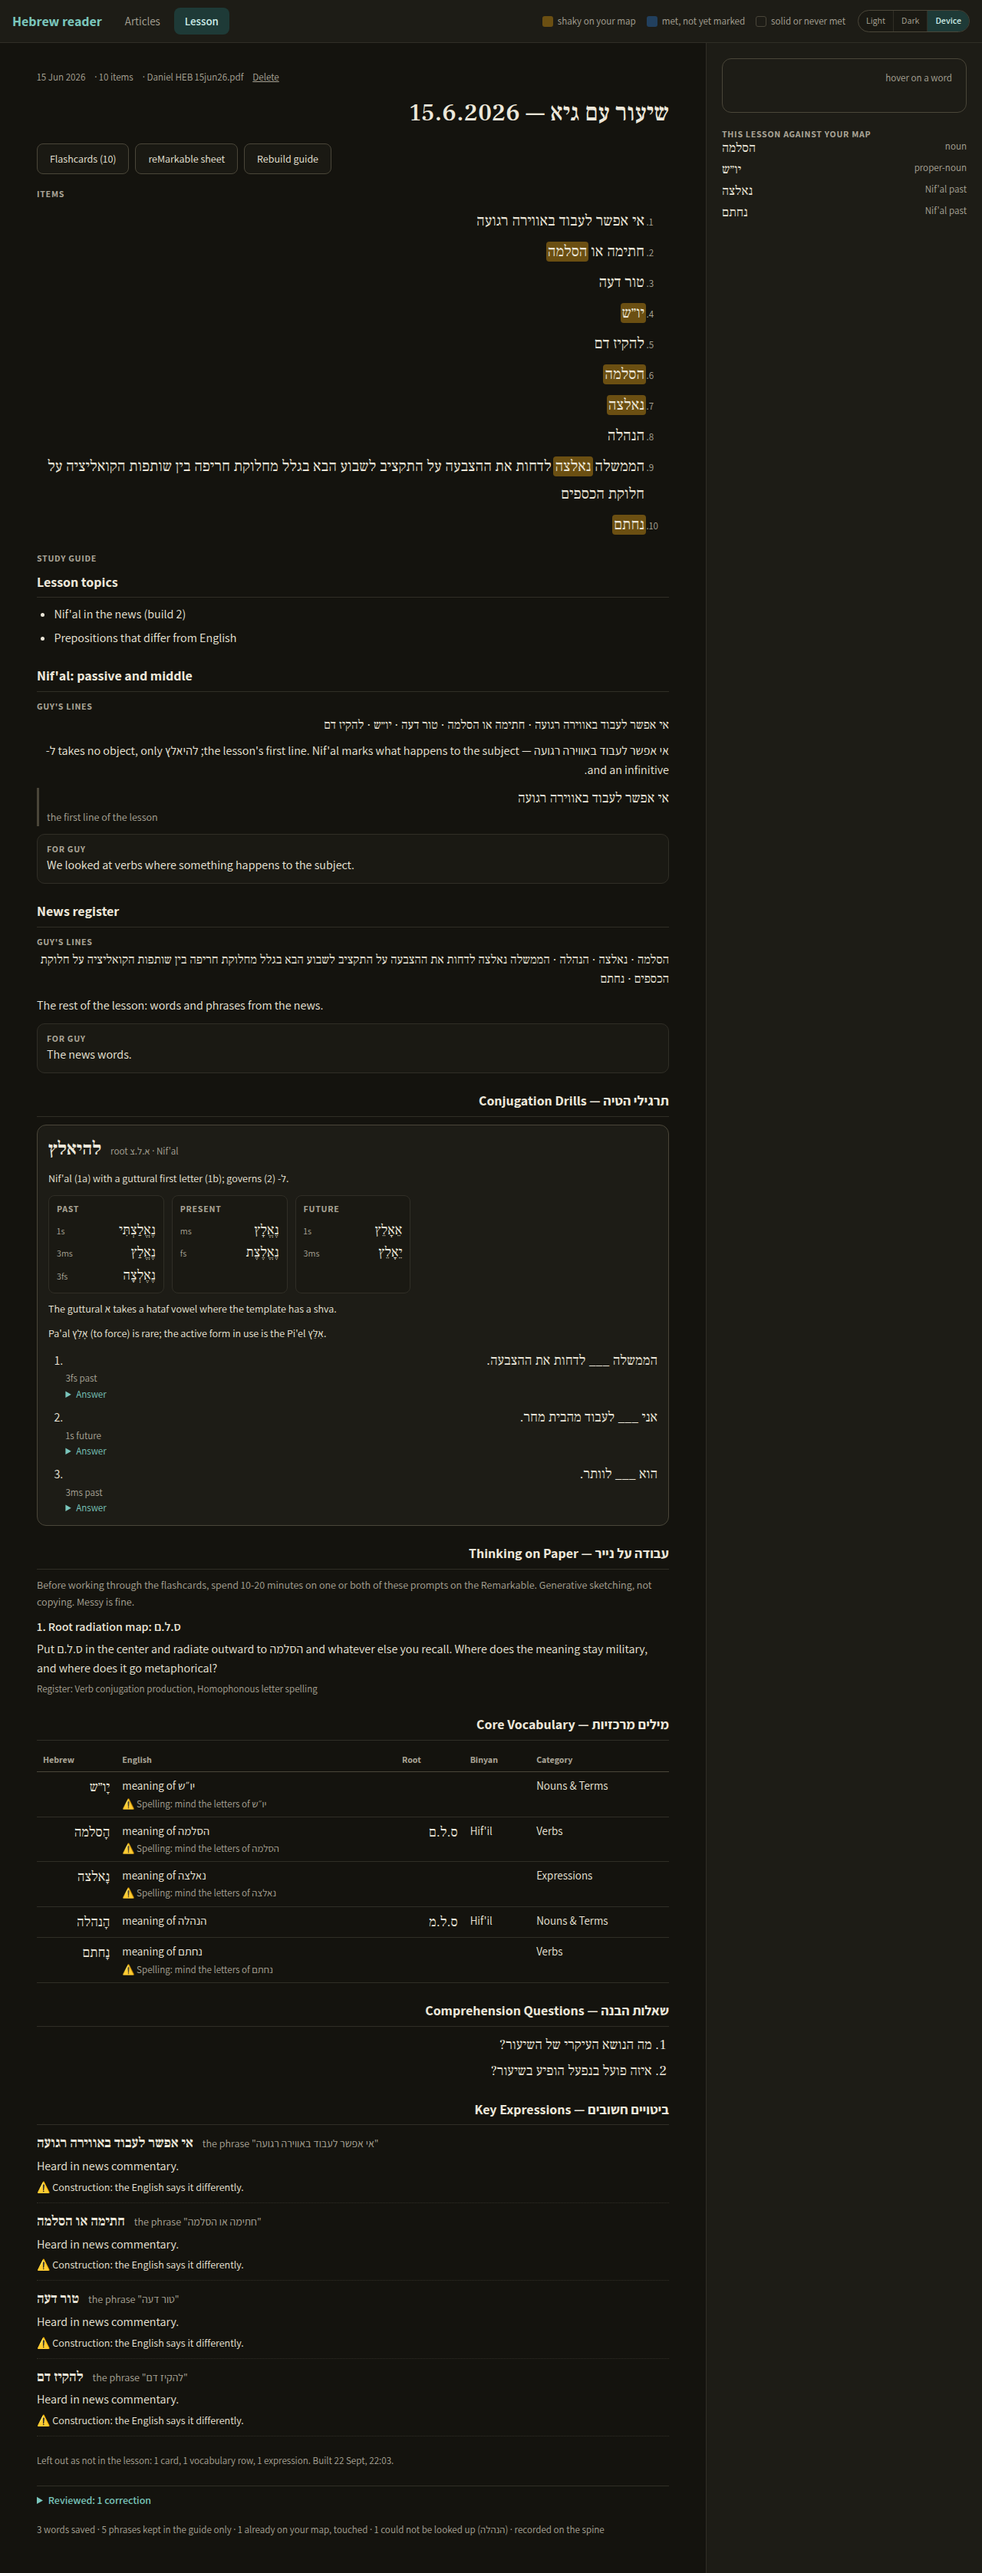
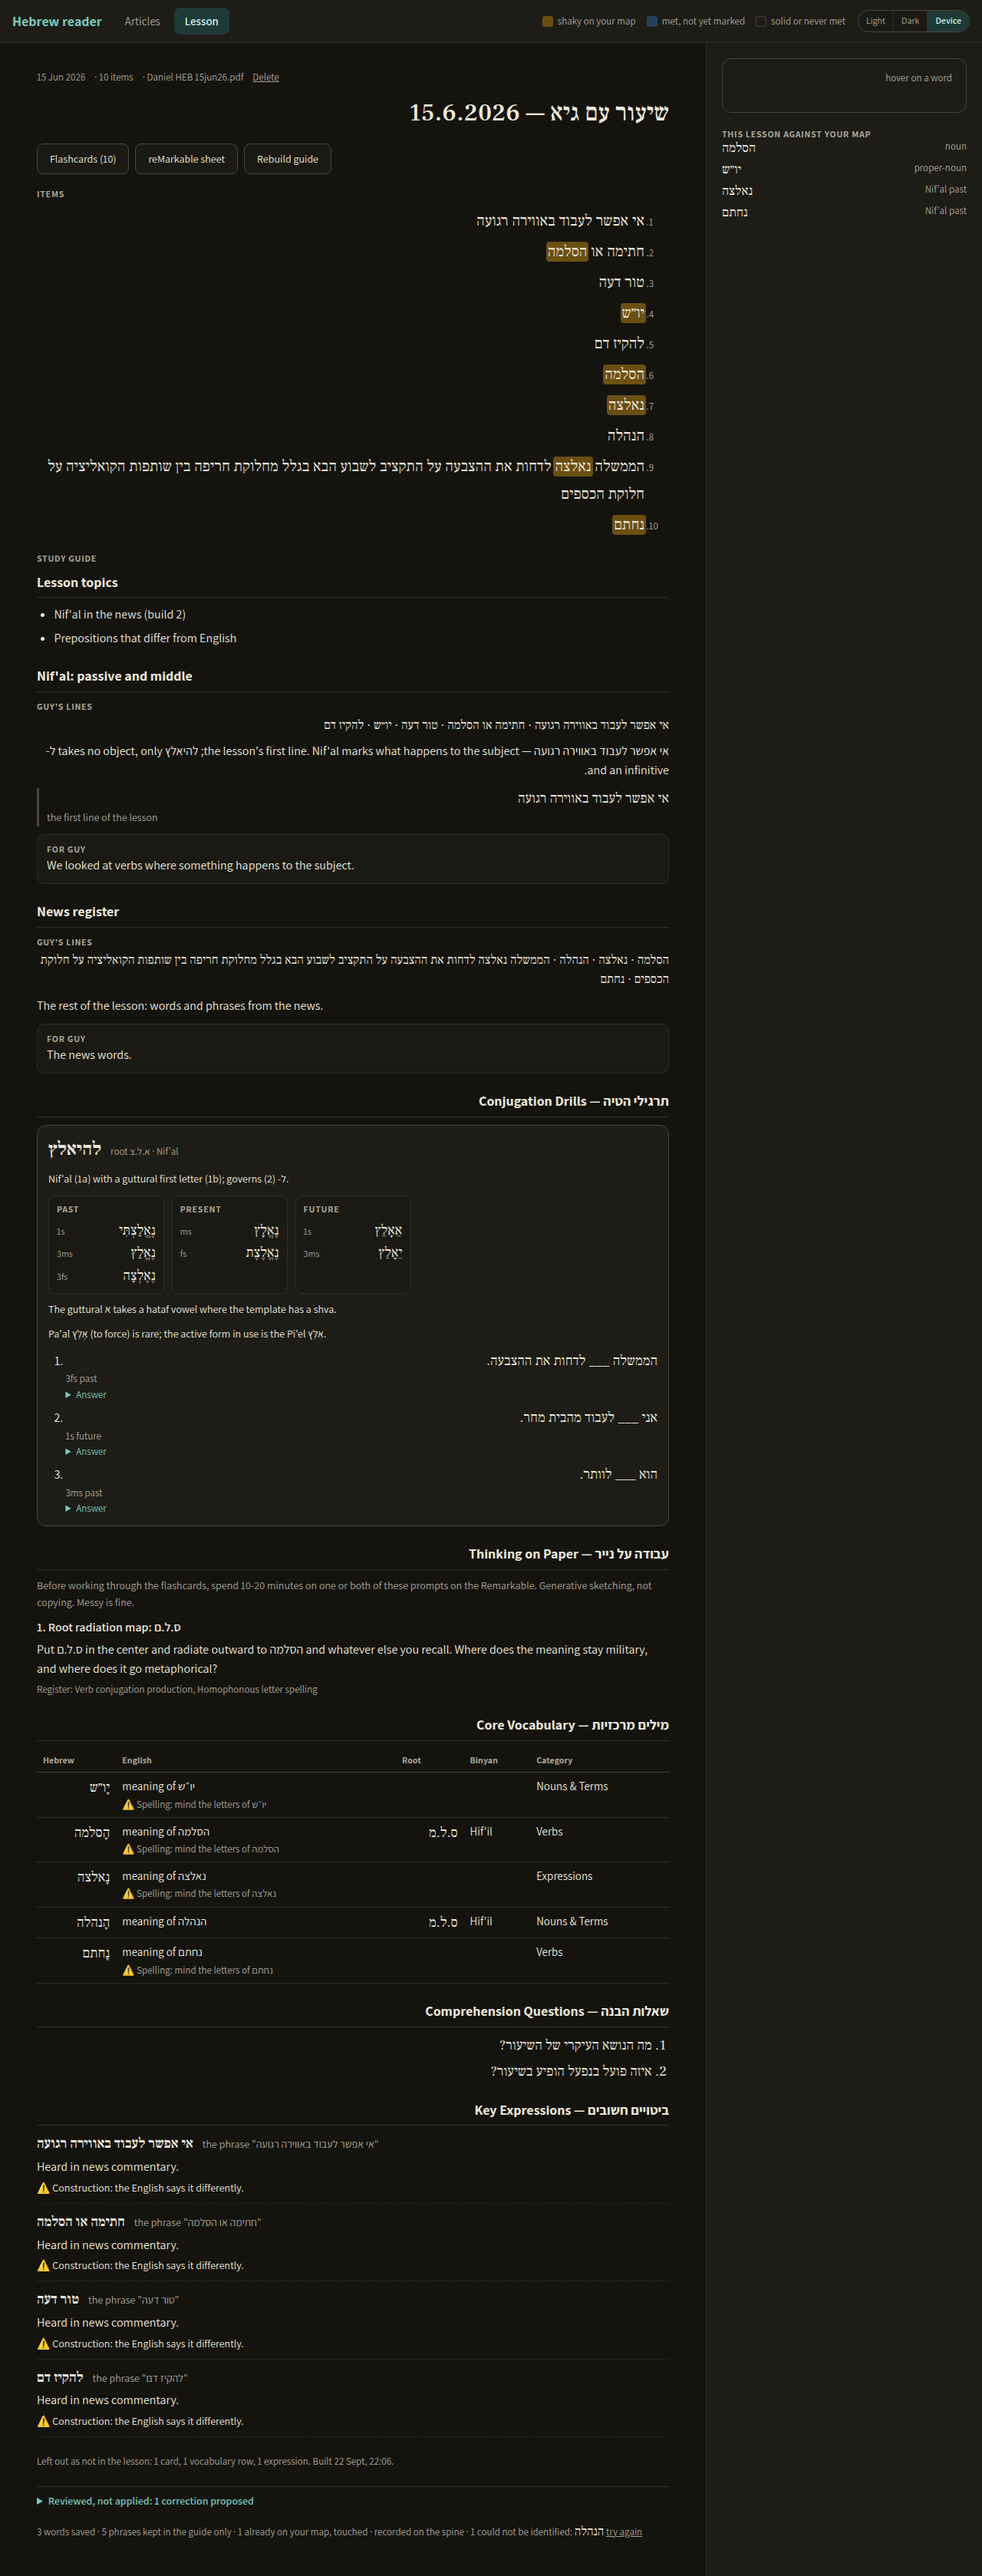
Try again for a lesson word the card could not identify
Each word in the lesson footer's 'could not be identified' list gets a
'try again' link: one lookup through the reader's card path (a failure is
never cached, so it is one fresh model call). On success the word is saved
shaky and sent to the spine like the lesson's other words and leaves the
list; on failure it stays, with the card's own reason.

Claude-Session: https://claude.ai/code/session_01NDM4926nsRSzZDYXrQXacP

diff --git a/lib/guy-lesson.js b/lib/guy-lesson.js
@@ -259,34 +259,47 @@ function shapeGuide(raw, lesson) {
 // its sentence being the item itself, as the lesson page cuts it). A spot not
 // yet on the map (absent, or only met) is saved shaky and sent to the spine;
 // a shaky or solid spot is touched and keeps its status.
+// One word of the lesson onto the map: its card through the reader's own path
+// (cache, spot, touch), then saved shaky when it was not yet on the map.
+// Answers 'saved', 'touched' or 'same spot', plus the spine outcome; throws
+// the card's own error when the word could not be identified.
+async function saveOne(lesson, surface, item, start, done, tally) {
+  const r = await lookup.lookup({ surface, sentence: tok.sentenceAt(item, start), lesson_id: lesson.id });
+  if (!r.spot) throw new ReaderError(422, 'No spot for this word.');
+  if (done.has(r.spot.id)) return 'same spot';
+  done.add(r.spot.id);
+  if (r.spot.status === 'new') {
+    const spot = db.setSpotStatus(r.spot.id, 'shaky');
+    tally(await spine.recordMark(spot, { lastArticleTitle: db.lastArticleTitle(spot.id) }));
+    return 'saved';
+  }
+  tally(r.spine);
+  return 'touched';
+}
+
+function spineTally(out) {
+  return (o) => { if (o && o !== 'not on spine') out.spine[o] = (out.spine[o] || 0) + 1; };
+}
+
 async function saveWords(lesson) {
   const out = { words: 0, touched: 0, phrases: 0, failed: [], spine: {} };
   const done = new Set();
-  const tally = (o) => { if (o && o !== 'not on spine') out.spine[o] = (out.spine[o] || 0) + 1; };
+  const tally = spineTally(out);
   let unreachable = 0;
   for (const item of lesson.items) {
     const words = tok.words(item);
     if (words.length !== 1) { out.phrases++; continue; }
     const surface = words[0].surface;
-    let r;
+    let result;
     try {
-      r = await lookup.lookup({ surface, sentence: tok.sentenceAt(item, words[0].start), lesson_id: lesson.id });
+      result = await saveOne(lesson, surface, item, words[0].start, done, tally);
     } catch (e) {
       if ((e.status || 500) >= 500) unreachable++;
       out.failed.push({ surface, error: e.message });
       continue;
     }
-    if (!r.spot) { out.failed.push({ surface, error: 'No spot for this word.' }); continue; }
-    if (done.has(r.spot.id)) continue;
-    done.add(r.spot.id);
-    if (r.spot.status === 'new') {
-      const spot = db.setSpotStatus(r.spot.id, 'shaky');
-      tally(await spine.recordMark(spot, { lastArticleTitle: db.lastArticleTitle(spot.id) }));
-      out.words++;
-    } else {
-      tally(r.spine);
-      out.touched++;
-    }
+    if (result === 'saved') out.words++;
+    else if (result === 'touched') out.touched++;
   }
   const singles = out.words + out.touched + out.failed.length;
   // The model or the network was down for every word: nothing is recorded as
@@ -298,6 +311,36 @@ async function saveWords(lesson) {
   console.log(`lesson ${lesson.id}: ${out.words} words saved shaky, ${out.touched} touched, ${out.phrases} phrases kept in the guide only`
     + (out.failed.length ? `, ${out.failed.length} could not be looked up` : ''));
   return out;
+}
+
+// "Try again" on a word the card could not identify: one lookup (one model
+// call; a failure is never cached). On success the word is saved shaky like
+// the others and leaves the list; on failure it stays, with the new reason.
+async function retryWord(id, surface) {
+  const lesson = db.getLesson(id);
+  surface = str(surface);
+  if (!surface) throw new ReaderError(400, 'surface is required: the word to try again.');
+  const saved = lesson.saved;
+  const entry = saved && saved.failed.find((f) => f.surface === surface);
+  if (!entry) throw new ReaderError(404, `${surface} is not among this lesson's words the card could not identify.`);
+  const item = lesson.items.find((i) => { const w = tok.words(i); return w.length === 1 && w[0].surface === surface; });
+  if (!item) throw new ReaderError(404, `${surface} is not a single-word item of this lesson.`);
+  const start = tok.words(item)[0].start;
+  let result;
+  try {
+    result = await saveOne(lesson, surface, item, start, new Set(), spineTally(saved));
+  } catch (e) {
+    entry.error = e.message;
+    db.setLessonSaved(lesson.id, saved);
+    console.error(`lesson ${lesson.id}: try again on ${surface} failed, ${e.message}`);
+    throw e;
+  }
+  saved.failed = saved.failed.filter((f) => f !== entry);
+  if (result === 'saved') saved.words++;
+  else saved.touched++;
+  db.setLessonSaved(lesson.id, saved);
+  console.log(`lesson ${lesson.id}: try again on ${surface}: ${result}`);
+  return { surface, result, saved };
 }
 
 // Builds in the background; the lesson page asks for the state until it is
@@ -510,4 +553,4 @@ function view(id) {
   };
 }
 
-module.exports = { extract, nameAndDate, add, shapeGuide, startGuide, view, remove, saveWords, plain, MIN_ITEMS, MAX_BYTES, NAME_PATTERN, KIND_ORDER };
+module.exports = { extract, nameAndDate, add, shapeGuide, startGuide, view, remove, saveWords, retryWord, plain, MIN_ITEMS, MAX_BYTES, NAME_PATTERN, KIND_ORDER };

diff --git a/public/lesson.js b/public/lesson.js
@@ -188,15 +188,53 @@ function drawReview(box, rv) {
 // card footer's own wording.
 function drawSaved(v) {
   const line = $('#saved-line');
+  line.innerHTML = '';
   if (v.saving) { line.textContent = "Saving the lesson's words to your map…"; return; }
   const s = v.saved;
-  if (!s) { line.textContent = ''; return; }
+  if (!s) return;
   const bits = [`${s.words} word${s.words === 1 ? '' : 's'} saved`, `${s.phrases} phrase${s.phrases === 1 ? '' : 's'} kept in the guide only`];
   if (s.touched) bits.push(`${s.touched} already on your map, touched`);
-  if (s.failed.length) bits.push(`${s.failed.length} could not be looked up (${s.failed.map((f) => f.surface).join(', ')})`);
   const outcome = ['unreachable', 'not configured', 'recorded'].find((o) => s.spine[o]);
   if (outcome) bits.push(window.CardUI.spineLine(outcome));
-  line.textContent = bits.join(' · ');
+  line.append(el('span', '', bits.join(' · ')));
+  if (!s.failed.length) return;
+  // The words the card could not identify, each with one "try again": one
+  // lookup when tapped, never on its own.
+  const box = el('span', 'failed-words');
+  box.append(el('span', '', ` · ${s.failed.length} could not be identified: `));
+  s.failed.forEach((f, i) => {
+    const w = el('span', 'failed-word');
+    w.append(he('span', f.surface));
+    const b = el('button', 'linklike', 'try again');
+    b.type = 'button';
+    b.dataset.surface = f.surface;
+    b.title = f.error;
+    b.addEventListener('click', () => retry(b, f.surface));
+    w.append(document.createTextNode(' '), b);
+    box.append(w);
+    if (i < s.failed.length - 1) box.append(document.createTextNode(', '));
+  });
+  line.append(box);
+}
+
+async function retry(button, surface) {
+  button.disabled = true;
+  button.textContent = 'trying…';
+  const msg = $('#retry-msg');
+  msg.className = 'msg';
+  msg.textContent = '';
+  try {
+    const out = await api('POST', `/lessons/${LESSON_ID}/retry`, { surface });
+    lesson.saved = out.saved;
+    drawSaved(lesson);
+    msg.textContent = `${surface}: ${out.result === 'saved' ? 'identified and saved to your map' : 'identified; already on your map'}.`;
+    await loadMarks();
+  } catch (e) {
+    msg.className = 'msg error';
+    msg.textContent = `${surface}: ${e.status ? e.message : 'the server could not be reached; try again in a moment.'}`;
+    button.disabled = false;
+    button.textContent = 'try again';
+  }
 }
 
 let pollTimer = null;

diff --git a/server.js b/server.js
@@ -220,6 +220,14 @@ route('POST', /^\/lessons\/(?<id>\d+)\/guide$/, async (req, res, { id }) => {
   return sendJson(res, state === 'building' ? 202 : 200, guyLesson.view(id));
 });
 
+// { surface } -> one more lookup of a word the card could not identify; on
+// success it is saved like the lesson's other words. Answers { surface,
+// result, saved }; a second failure answers the card's own error.
+route('POST', /^\/lessons\/(?<id>\d+)\/retry$/, async (req, res, { id }) => {
+  const body = await readJson(req);
+  return sendJson(res, 200, await guyLesson.retryWord(id, body.surface));
+});
+
 // The same surface map as an article's, for the lesson page's tints.
 route('GET', /^\/marks-for-lesson\/(?<id>\d+)$/, (req, res, { id }) => {
   db.getLesson(id);

diff --git a/public/app.css b/public/app.css
@@ -224,6 +224,7 @@ h1.headline { margin: 0; direction: rtl; text-align: right; font-family: var(--s
 .items li::marker { font-family: var(--sans); font-size: 13px; color: var(--muted); }
 .saved-line { margin: 0; font-size: 13px; color: var(--muted); }
 .saved-line:empty { display: none; }
+.saved-line .he { font-family: var(--serif); font-size: 16px; color: var(--text); unicode-bidi: isolate; }
 .guide { display: flex; flex-direction: column; gap: 22px; font-size: 16px; line-height: 1.55; }
 .guide section { display: flex; flex-direction: column; gap: 10px; }
 .guide h3 { margin: 0; font-size: 18px; font-weight: 700; border-bottom: 1px solid var(--line); padding-bottom: 6px; unicode-bidi: plaintext; }

diff --git a/public/lesson.html b/public/lesson.html
@@ -51,6 +51,7 @@
       <div class="guide" id="guide"></div>
     </section>
     <p class="saved-line" id="saved-line"></p>
+    <p class="msg" id="retry-msg"></p>
     <p class="msg" id="page-msg"></p>
   </main>
   <aside class="side">
